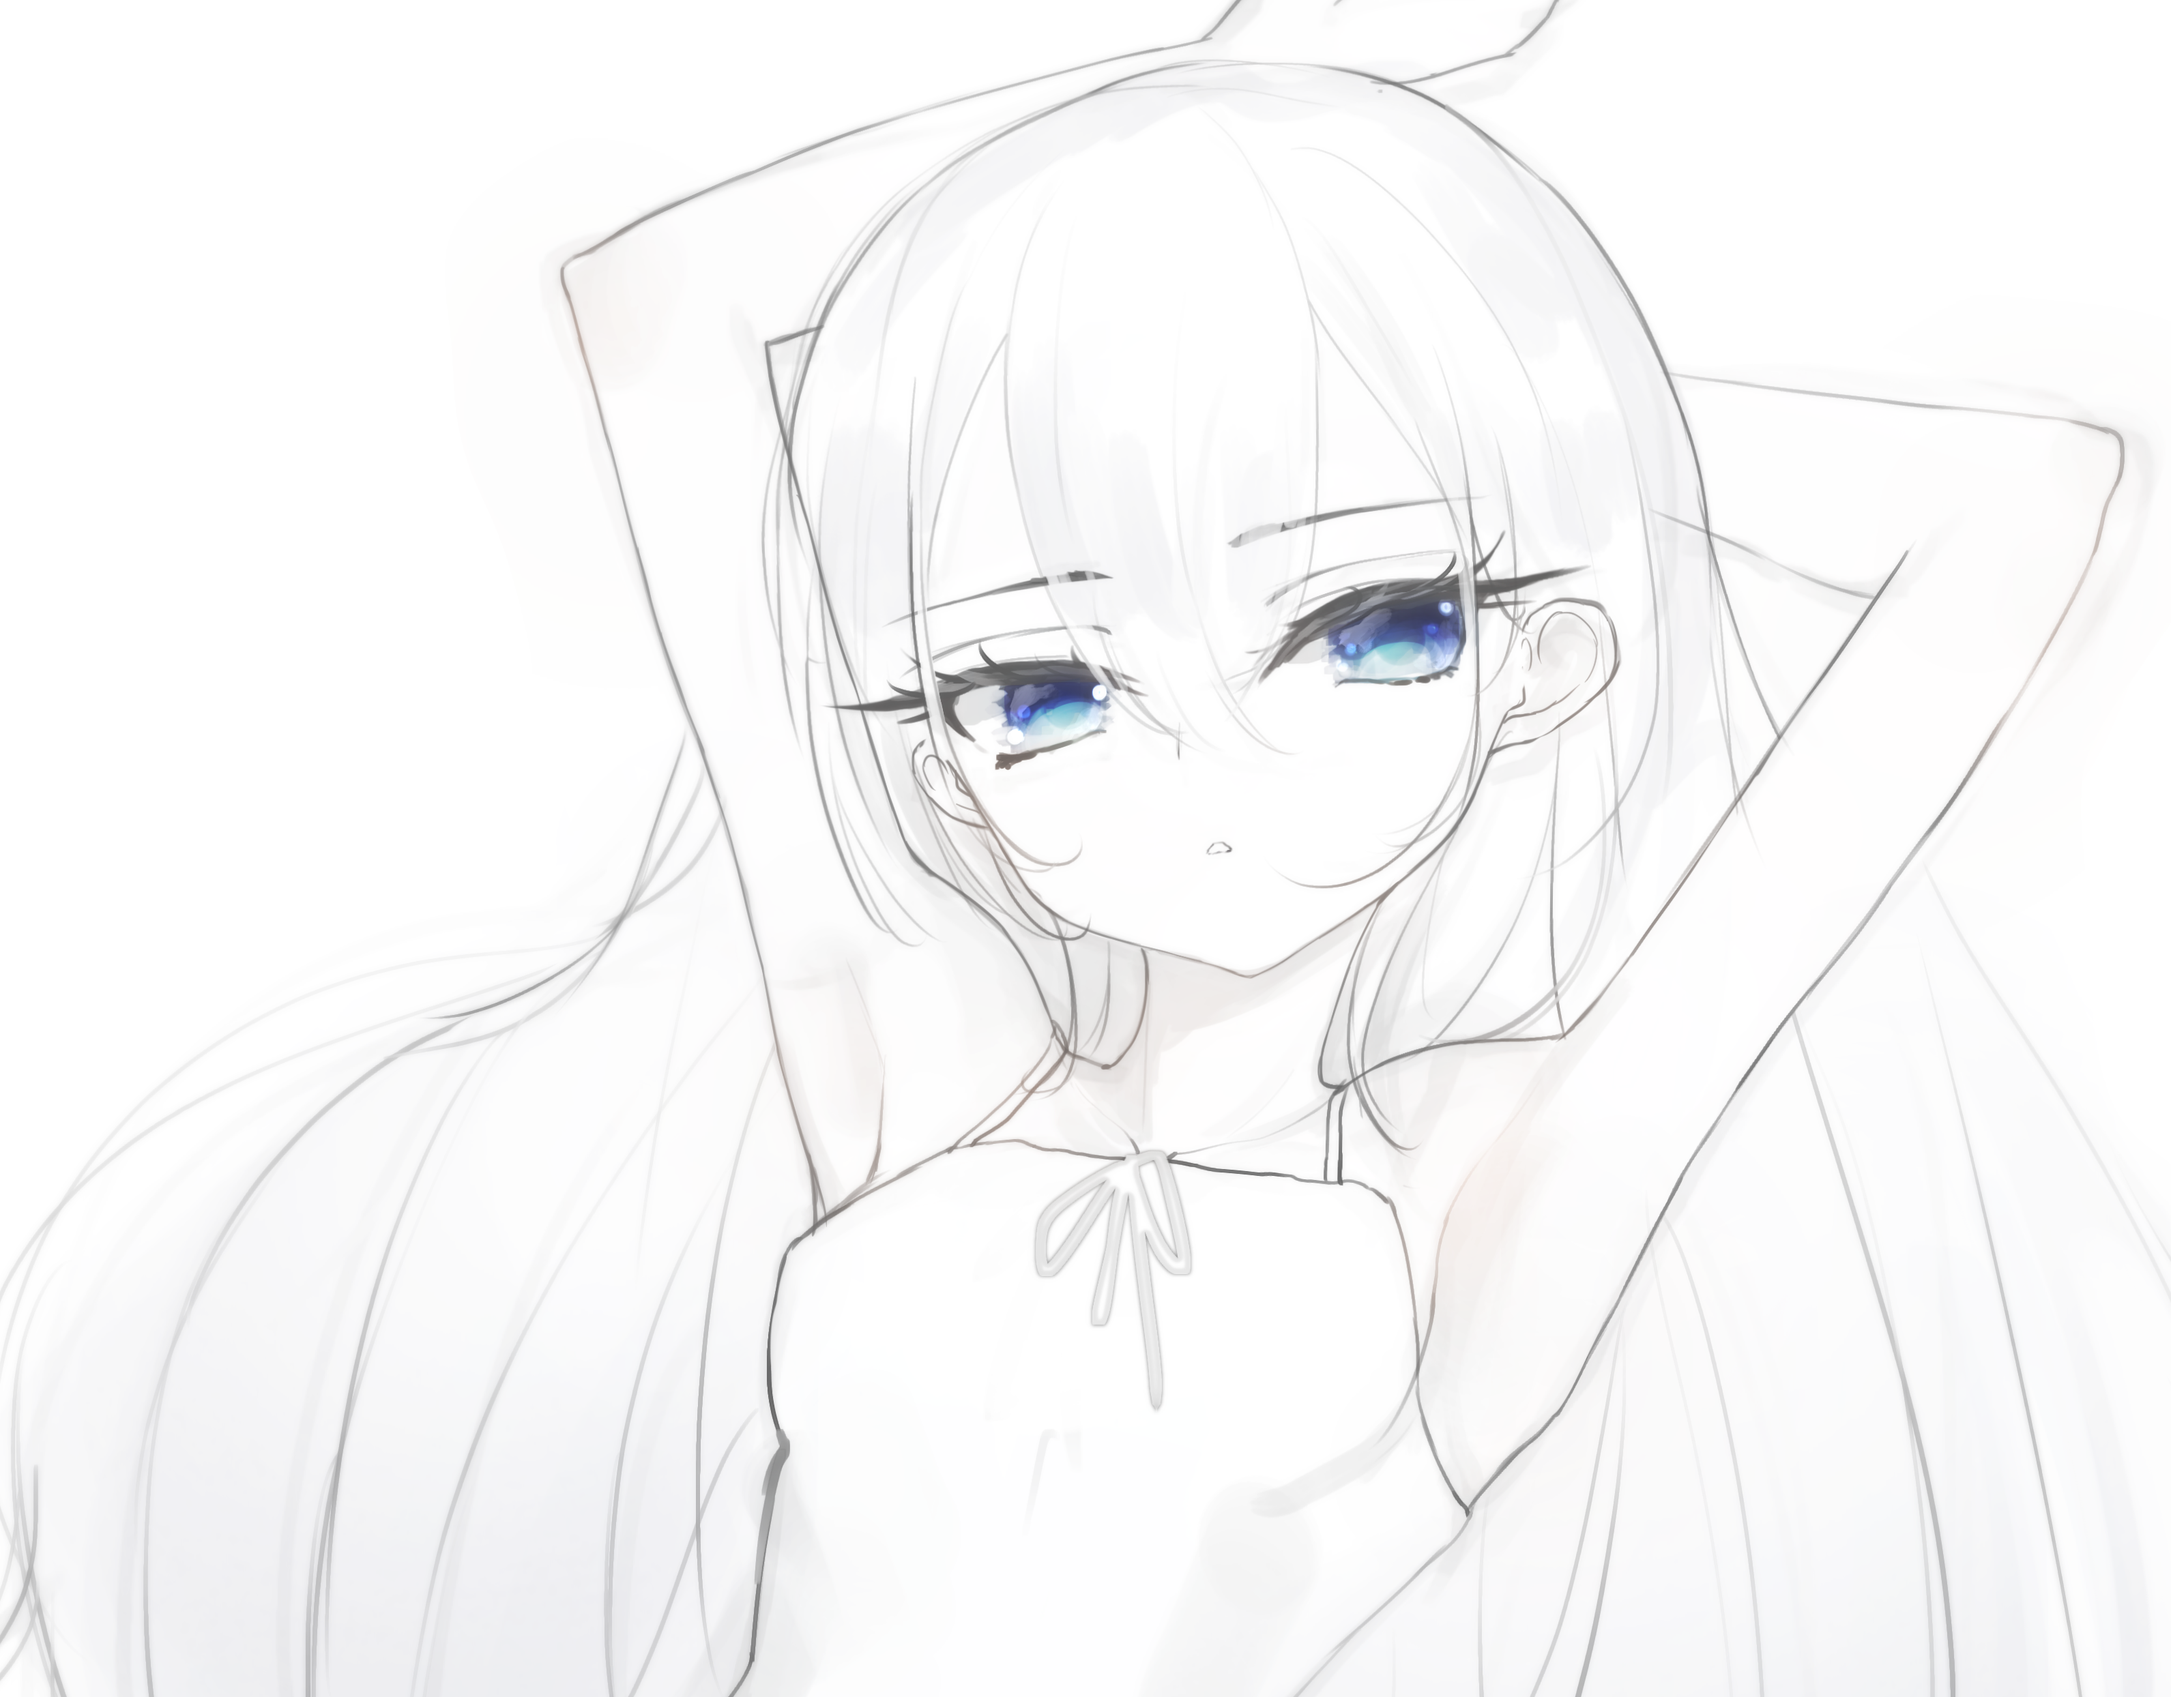
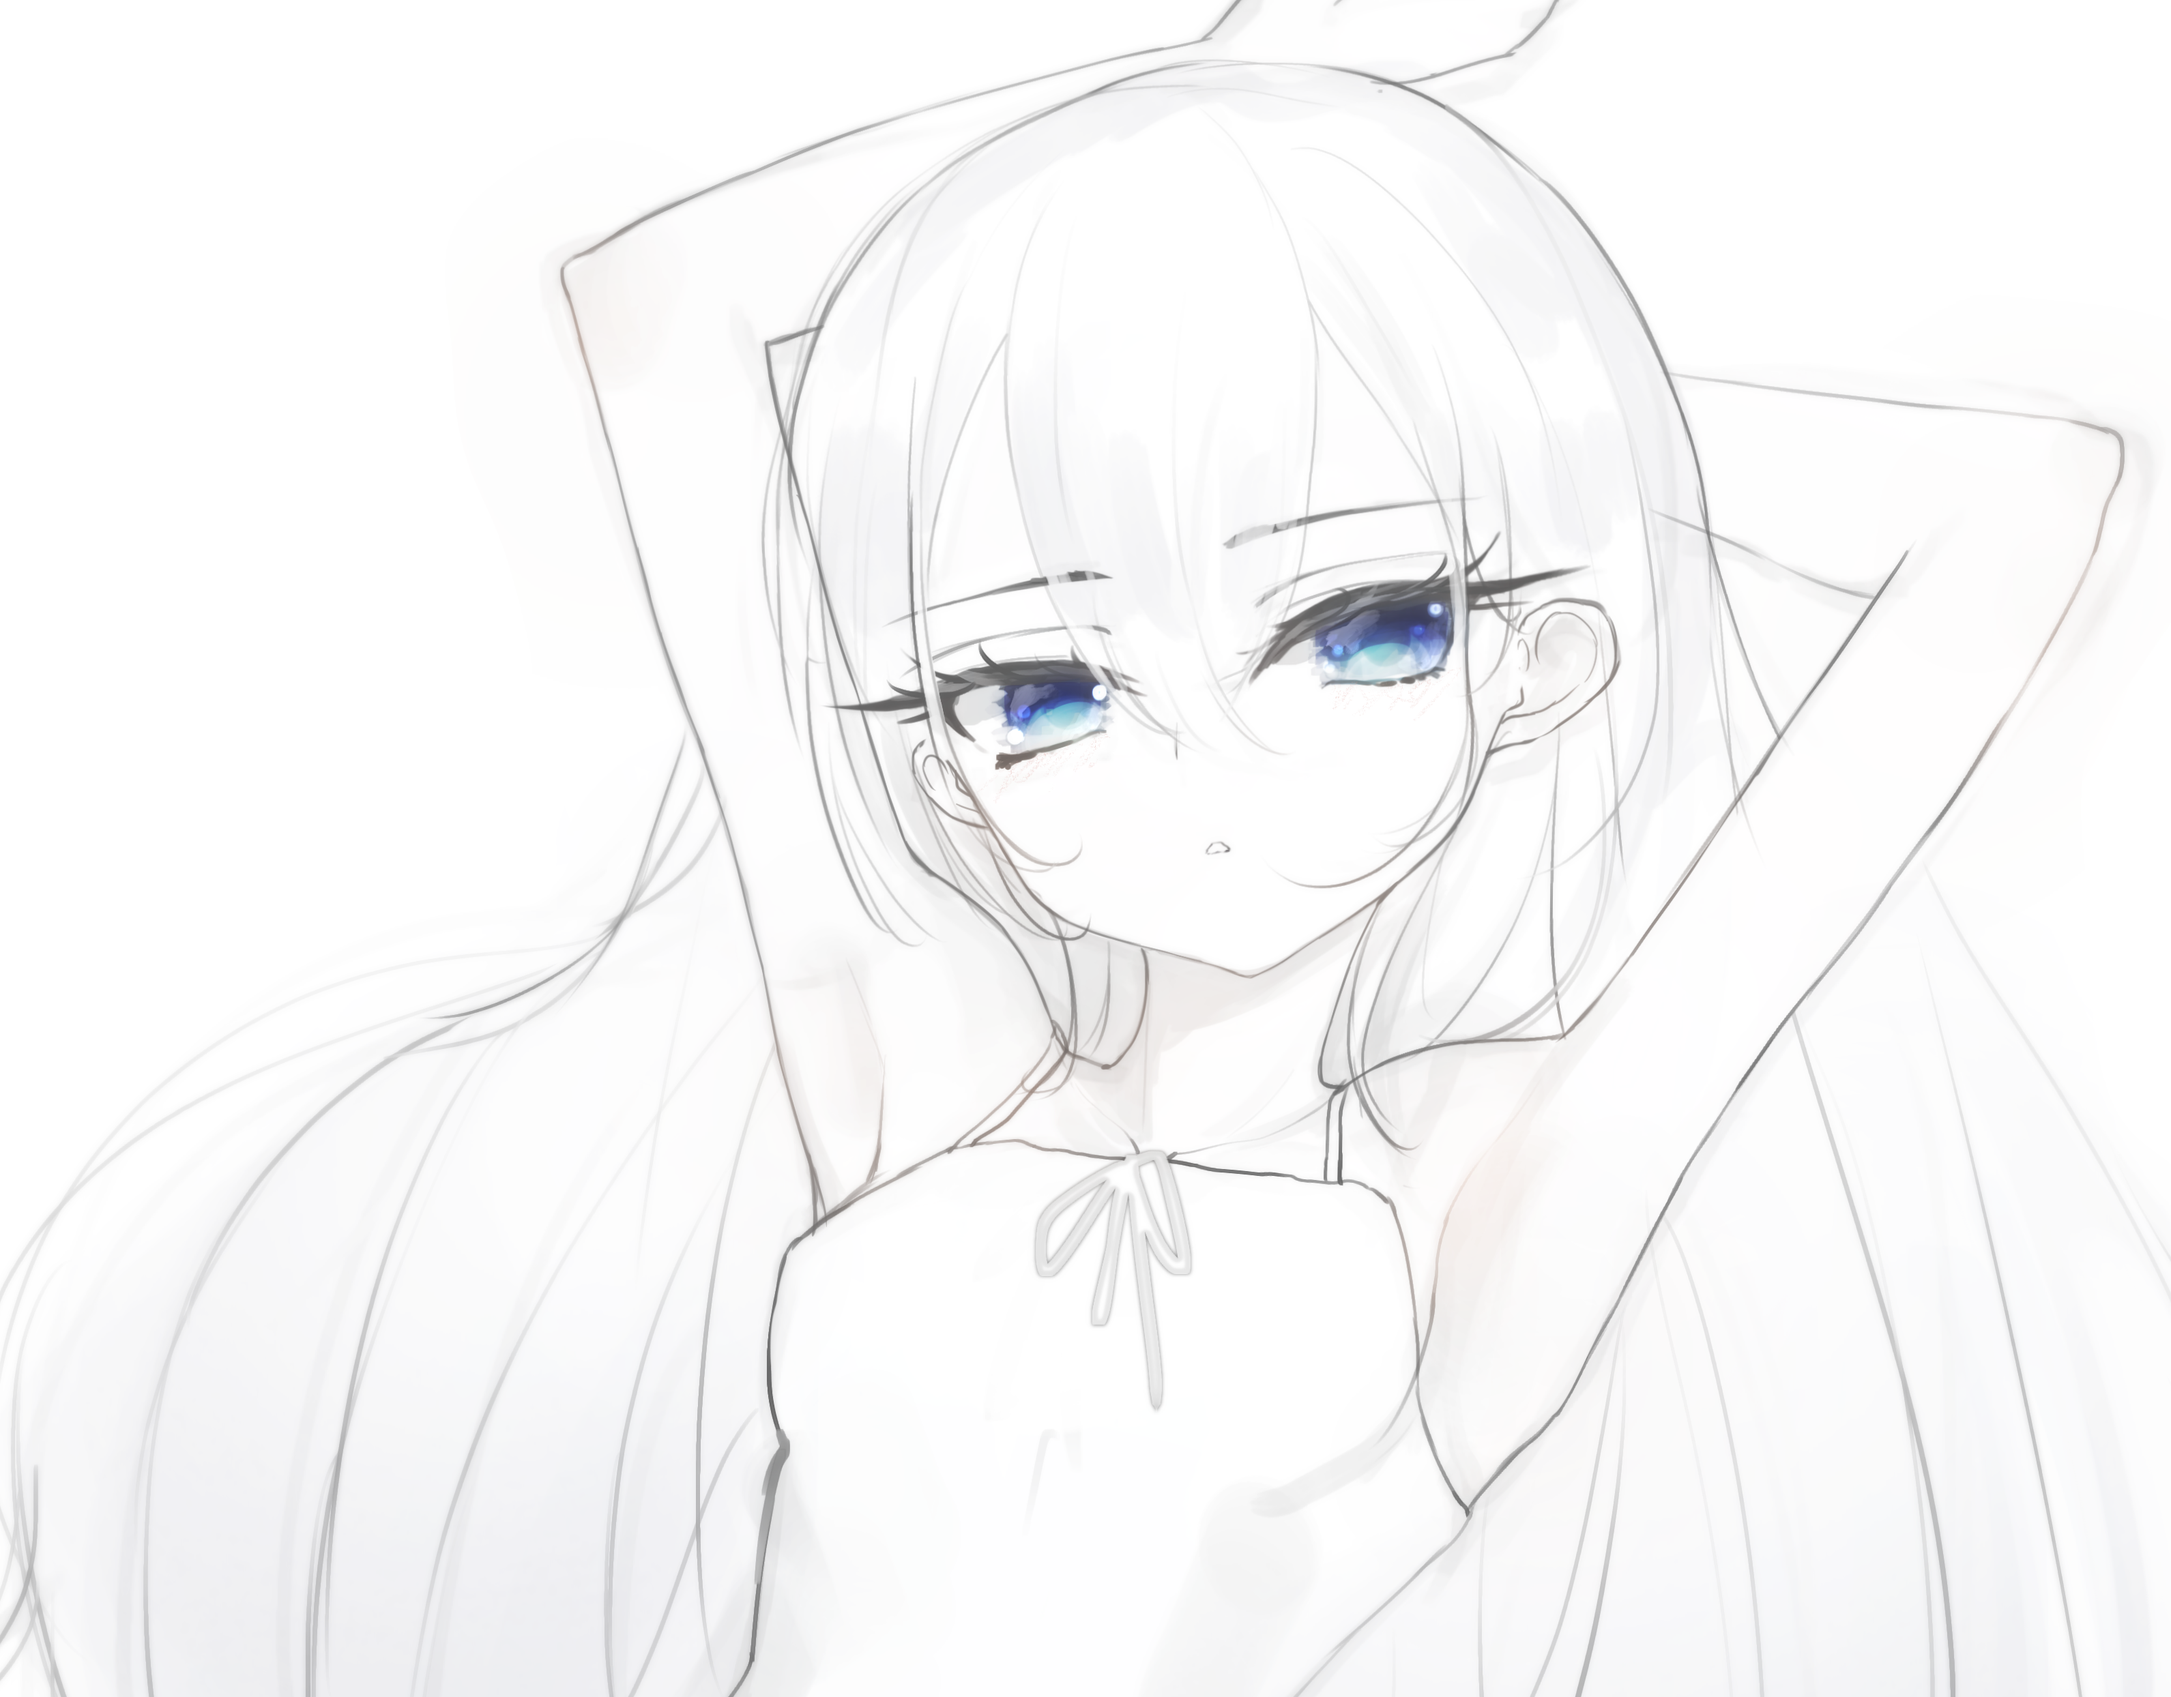
test

Changed region(s): [[0.56, 0.2785, 0.7156, 0.4952]]

diff --git a/app/secret/page.tsx b/app/secret/page.tsx
@@ -1,0 +1,7 @@
+function page(){
+    return(
+        <main>
+            secretpage!(工事中)
+        </main>
+    );
+}
